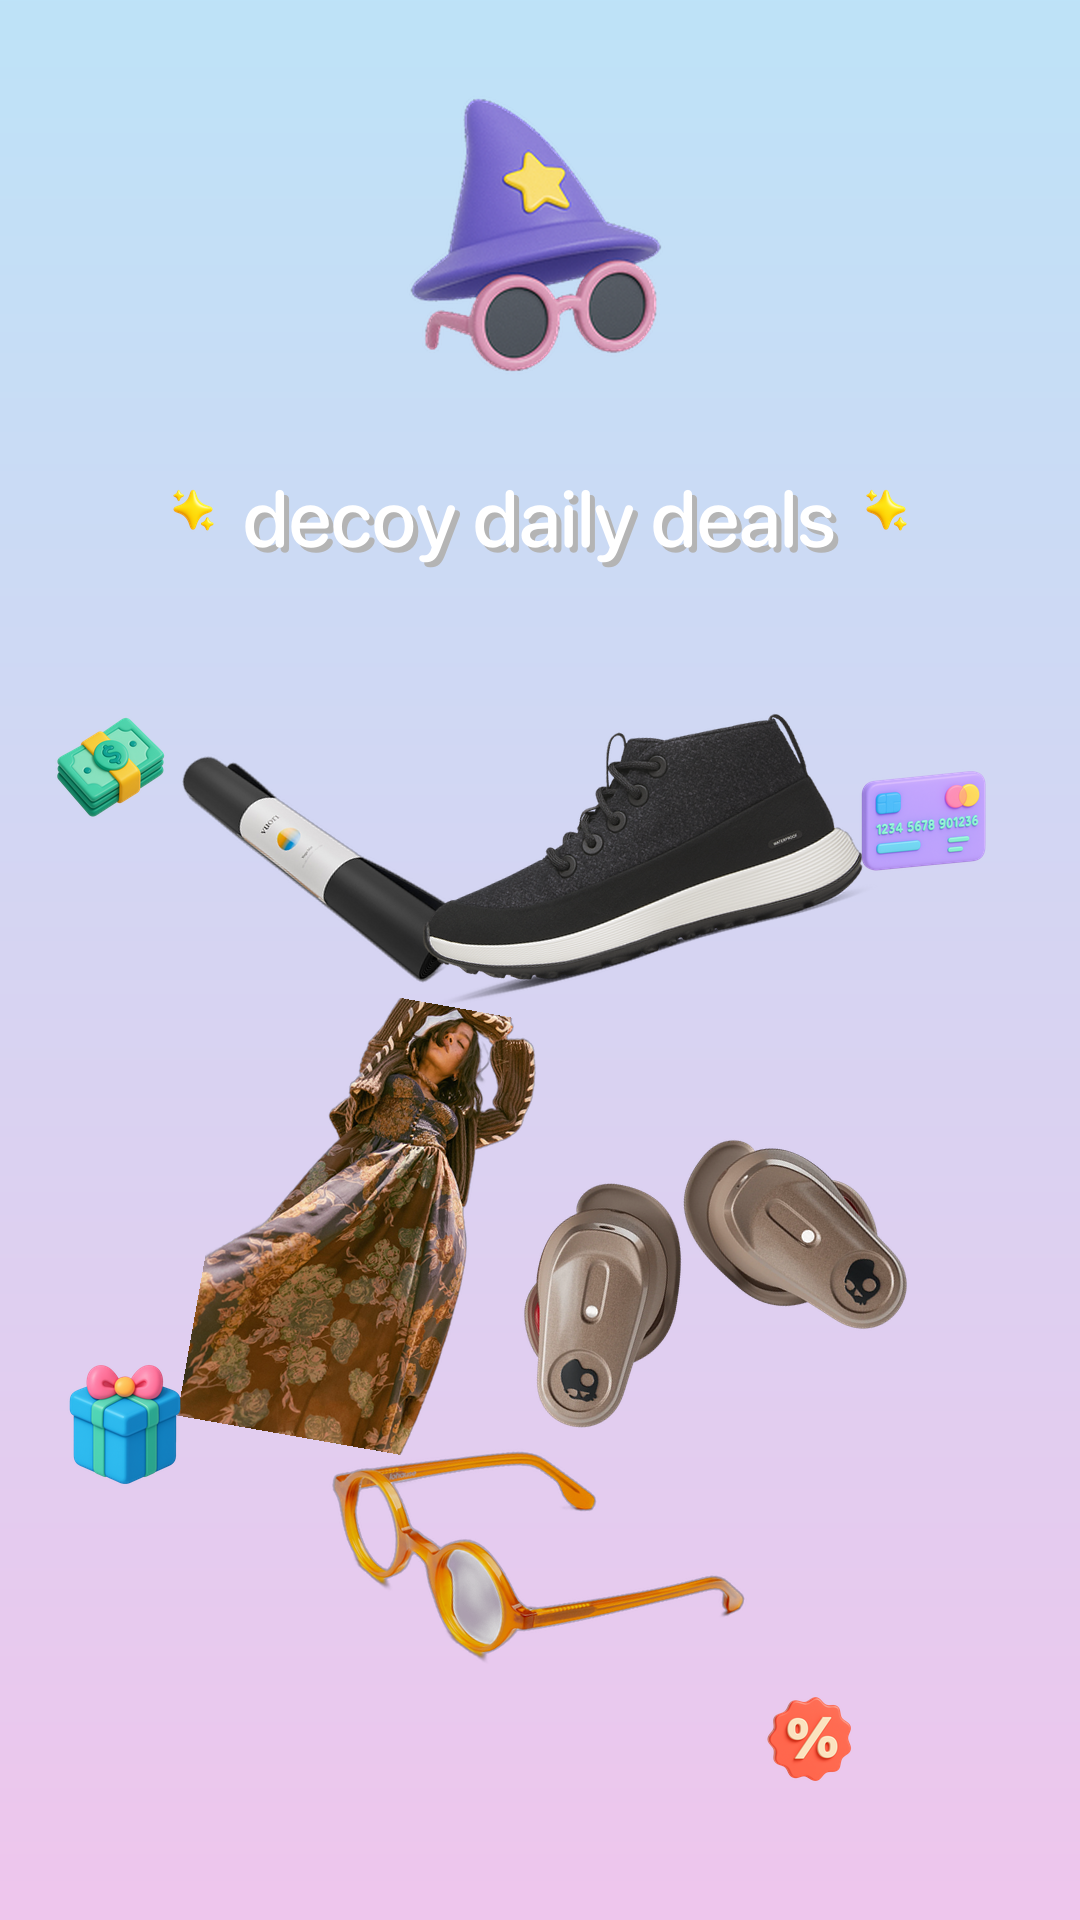
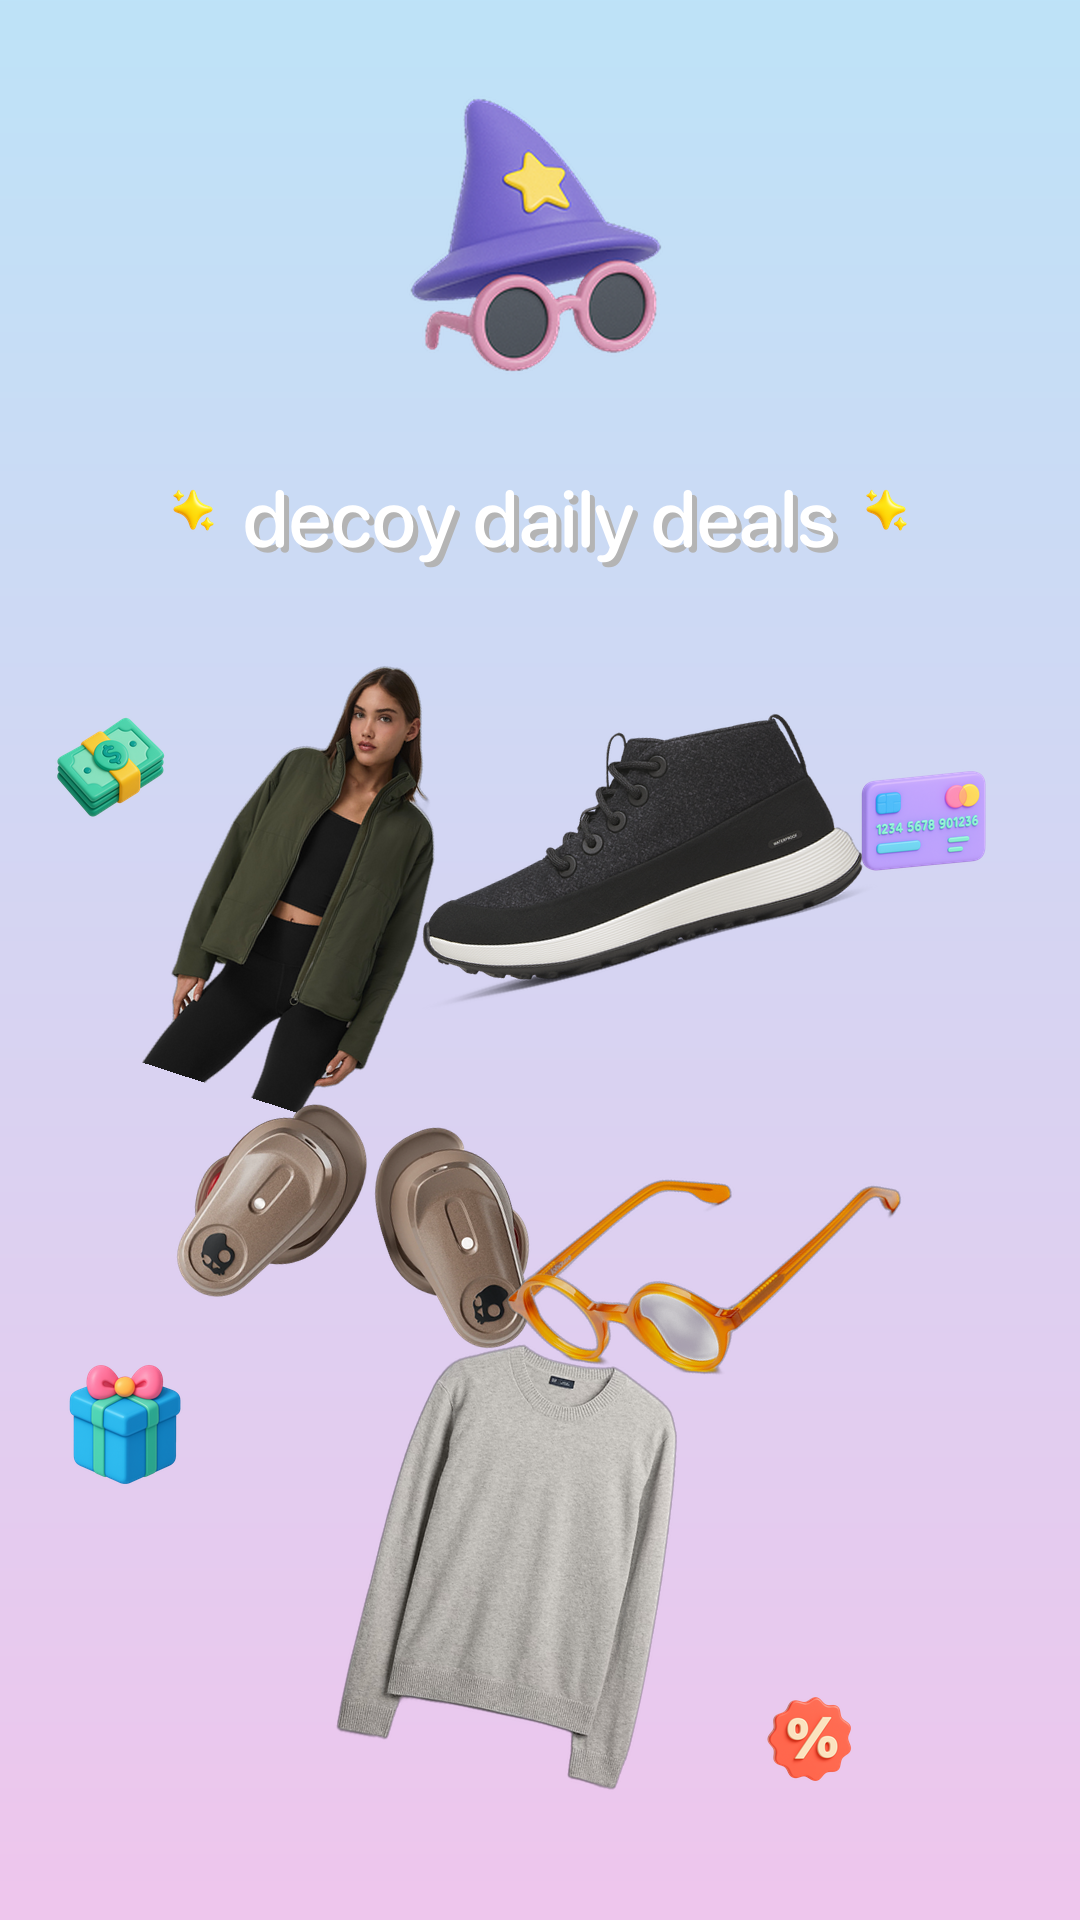
Replace: Promesa with Gap (50% off sitewide) for 10-29 posts
- Created Gap individual product image with 50% off sitewide
- Removed Promesa product image
- Removed background from Gap image for clean integration
- Updated cover page with Gap instead of Promesa
- Updated caption with Gap (50% off) replacing Promesa
- All images now feature Gap's 50% off deal

🤖 Generated with [Claude Code](https://claude.com/claude-code)

Changed region(s): [[0.1222, 0.3438, 0.8556, 0.9375]]

diff --git a/generate_cover_page.py b/generate_cover_page.py
@@ -242,6 +242,15 @@ def create_cover_page(deals, font_path):
                     continue
                 except:
                     image_url = image_urls[0]
+            elif brand == 'Gap':
+                # Use local high-quality image (already has proper background)
+                try:
+                    product_img = Image.open('generated_images/2025-10-29/gap.avif')
+                    product_images.append(product_img)
+                    print(f"    Processed product {i+1}/{min(7, len(deals))}")
+                    continue
+                except:
+                    image_url = image_urls[0]
             else:
                 image_url = image_urls[0]
 

diff --git a/generate_end_page.py b/generate_end_page.py
@@ -255,6 +255,15 @@ def create_end_page(deals, font_path):
                     continue
                 except:
                     image_url = image_urls[0]
+            elif brand == 'Gap':
+                # Use local high-quality image (already has proper background)
+                try:
+                    product_img = Image.open('generated_images/2025-10-29/gap.avif')
+                    product_images.append(product_img)
+                    print(f"    Processed product {i+1}/{min(5, len(deals))}")
+                    continue
+                except:
+                    image_url = image_urls[0]
             else:
                 image_url = image_urls[0]
 
